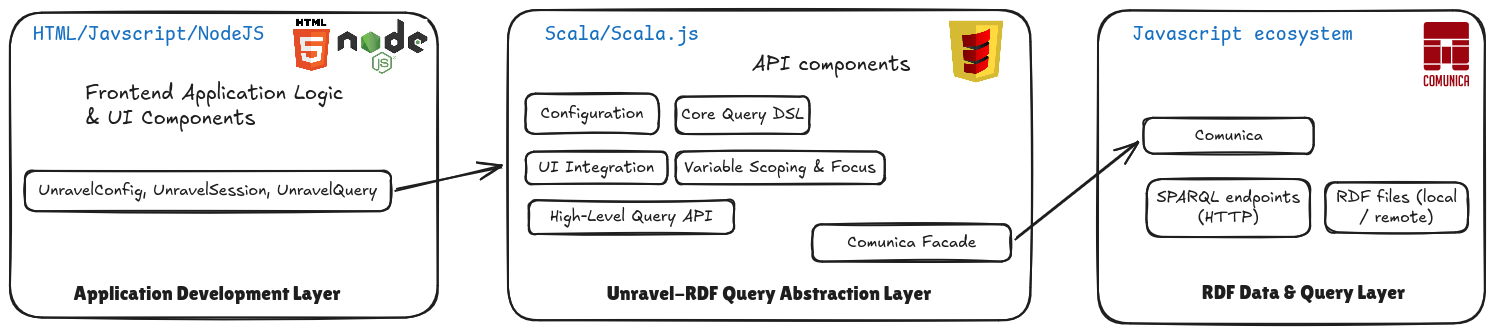
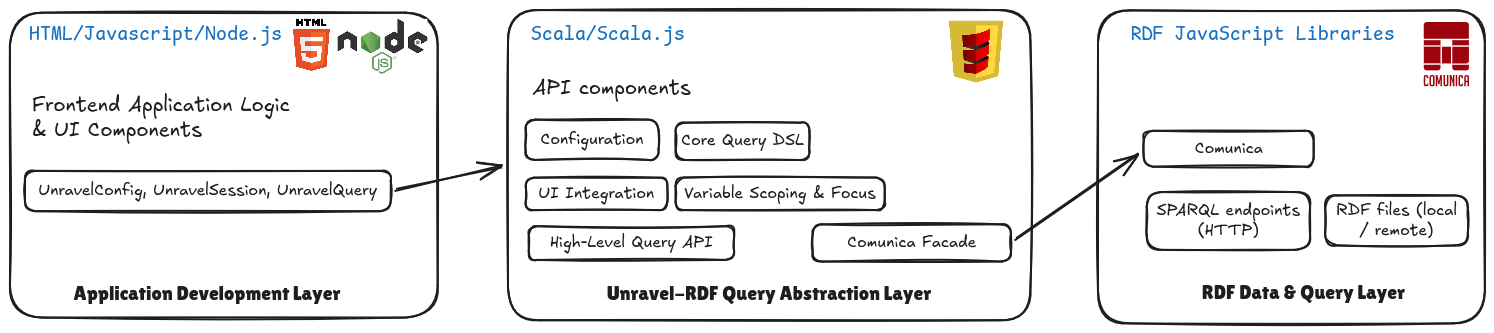
arch png

diff --git a/iswc-2026/unravel-iswc2026.tex b/iswc-2026/unravel-iswc2026.tex
@@ -251,7 +251,7 @@ high-level query API, UI integration utilities, and a variable scoping
 mechanism. Together, these components offer a composable, focus-based
 abstraction over SPARQL queries that can be safely reused across
 application code. A dedicated Comunica facade\footnote{https://www.scala-js.org/libraries/facades.html}
-connects this abstraction layer to the JavaScript RDFJS ecosystem and
+connects this abstraction layer to the JavaScript ecosystem and
 exposes a typed interface to the underlying SPARQL engines.
 
 Finally, the RDF Data \& Query Layer corresponds to the existing